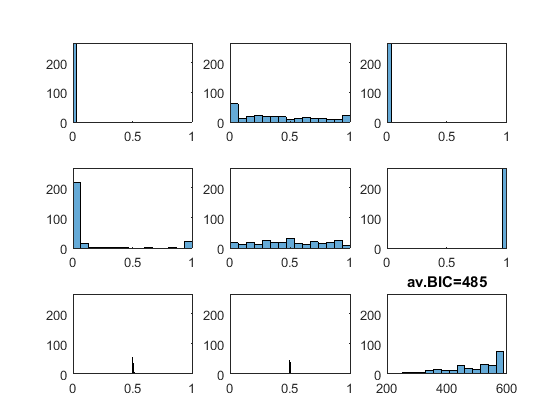
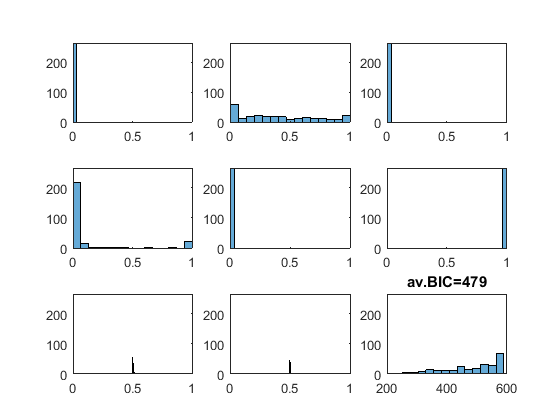
added Genrec class and parameterFitting class

diff --git a/DatasetTest.m b/DatasetTest.m
@@ -1,6 +1,7 @@
 classdef DatasetTest < matlab.unittest.TestCase
-    %UNTITLED9 Summary of this class goes here
-    %   execute with "result = run(TestSuite.fromClass(?DatasetTest))"
+    
+    % load test suite with "import matlab.unittest.TestSuite"
+    % run tests with "result = run(TestSuite.fromClass(?DatasetTest))"
     
     properties
     end
@@ -13,8 +14,20 @@ classdef DatasetTest < matlab.unittest.TestCase
             sim_model = 'mb';
             common = 0.7;
             
-            dataset = Simulated_data(n_datasets, n_trials, sim_model, common);
+            % Simulate data
+            dataset = Simulated_data(sim_model, n_datasets, n_trials, common);
+            [Agent, agentID, runID] = dataset.get_data(1);
+
+            testCase.verifyEqual(agentID, 1);
+            testCase.verifyEqual(runID, nan);
+            all_zeros = all(Agent(1,:) == 0);
+            testCase.verifyFalse(all_zeros);
+
+            % Load data
+            sim_model = 'mb';
+            load(['data_' sim_model '_agents.mat'])
             
+            dataset = Simulated_data(sim_model);
             [Agent, agentID, runID] = dataset.get_data(1);
 
             testCase.verifyEqual(agentID, 1);
@@ -22,20 +35,88 @@ classdef DatasetTest < matlab.unittest.TestCase
             all_zeros = all(Agent(1,:) == 0);
             testCase.verifyFalse(all_zeros);
         end
-        
+                
         function testRealData(testCase)
             file_dir = 'C:\Users\maria\MEGAsync\TrainingPlanningProject\TwoStepTask\Results\rawdata2016';   % Where is the original data stored?
             dataset = Real_data(file_dir);
-            n_datasets = dataset.n_datasets;
+            n_datasets = dataset.number;
             
+            % Load human data
             [Agent, agentID, runID] = dataset.get_data(1);
+            [Agent, agentID, runID] = dataset.get_data(2);
 
             testCase.verifyTrue(agentID > 100);
             testCase.verifyTrue(any(runID == 1:4));
             all_zeros = all(Agent(1,:) == 0);
             testCase.verifyFalse(all_zeros);
+            all_zeros = all(Agent(1,:) == 0);
+            testCase.verifyFalse(all_zeros);
             testCase.verifyEqual(n_datasets, 266);
         end
+        
+        function testGenrec(testCase)
+            common = 0.7;
+            sim_data = 'load';
+            sim_model = 'mb';
+            fit_model = 'mb';
+            n_datasets = 5;
+            n_trials = 5;
+            n_params = 8;
+            i_dataset = 1;
+            dataset = Simulated_data(sim_model, n_datasets, n_trials, common);
+            [Agent, agentID, runID] = dataset.get_data(i_dataset);
+            fit_params = -1 * ones(1, n_params);
+            NLLBICAIC = 100 * ones(1, 3);
+            
+            % Create genrec object
+            genrec = Genrec(sim_model, fit_model, n_datasets, n_params);
+            testCase.verifyEqual(genrec.file_name(1:6), 'genrec');
+            genrec_size = [n_datasets,  (2 * n_params + 7)];
+            testCase.verifyEqual(size(genrec.Data), genrec_size);
+            
+            % Save results to genrec
+            genrec.add_results(i_dataset, Agent, agentID, runID, fit_params, NLLBICAIC, sim_data);
+            genrec.add_results(i_dataset + 1, Agent, agentID, runID, fit_params, NLLBICAIC, sim_data);
+            testCase.verifyFalse(all(genrec.Data(i_dataset, :) == 0))
+            testCase.verifyFalse(all(genrec.Data(i_dataset + 1, :) == 0))
+            
+            % Save genrec to disk
+            genrec.save_data
+            load(genrec.file_name)
+            testCase.verifyEqual(size(genrec_dat), genrec_size);
+            testCase.verifyFalse(all(genrec_dat(i_dataset, :) == 0))
+        end
+        
+        function testParameterFitting(testCase)
+            fit_model = 'mf';
+            sim_data = 'load';
+            n_params = 8;
+            n_fmincon_iterations = 3;
+            solver_algo = 'fmincon';
+            common = 0.7;
+            for sim_mod = {'mb', 'mf', 'hyb'}
+                sim_model = strjoin(sim_mod);
+                load(['data_' sim_model '_agents.mat'])
+                dataset = Simulated_data(sim_model);
+                [Agent, ~, ~] = dataset.get_data(1);
+
+                % Create parameterFitting object
+                parameterFitting = ParameterFitting(fit_model, n_fmincon_iterations, solver_algo);
+                testCase.verifyTrue(strcmp(parameterFitting.fit_model, fit_model))
+                testCase.verifyFalse(all(parameterFitting.fit_par == ones(1, 8)))
+
+                % Minimize neg. log. lik.
+                [fit_params, ~] = parameterFitting.minimize_NLL(Agent, sim_data, common);
+                minimized_parameters = fit_params(parameterFitting.fit_par == -1);
+                testCase.verifyTrue(all(fit_params >= zeros(1, n_params) & fit_params <= ones(1, n_params)))
+%                 testCase.verifyTrue(all(minimized_parameters > 0));
+
+                % Calculate BIC & AIC
+                NLLBICAIC = parameterFitting.compute_NLL(Agent, fit_params, sim_data, common);
+                testCase.verifyTrue(all(NLLBICAIC > zeros(1, 3)));
+            end
+        end
+        
     end
     
 end

diff --git a/MAIN.m b/MAIN.m
@@ -4,9 +4,9 @@
 % where fract2 == -2; remove strokes with the same key more than x times)
 
 %% Switches for this script (would be function argument if this were a function)
-sim_data = 'sim';   % Should the data be simulated ('sim') or loaded from disk ('load') or is the real dataset used ('real')?
-sim_model = 'mb';   % What model should be used for simulation / what data should be loaded? (e.g., 'mb', 'mf', 'hyb'; check in model_ID for all available models)
-fit_model = 'mb';   % What model should be used for fitting? ('mf', 'mb', 'hyb', '1a1b' (Also needs changes in computeNLL!!))
+sim_data = 'real';   % Should the data be simulated ('sim') or loaded from disk ('load') or is the real dataset used ('real')?
+sim_model = nan;   % What model should be used for simulation / what data should be loaded? (e.g., 'mb', 'mf', 'hyb'; check in model_ID for all available models)
+fit_model = 'mf';   % What model should be used for fitting? ('mf', 'mb', 'hyb', '1a1b' (Also needs changes in computeNLL!!))
 location = 'home';   % Where is this code run? Can be 'home' or 'cluster'
 solver_algo = 'fmincon';   % Which method is used to solve? 'fmincon' (with n_fmincon_iterations different starts) or 'ga' (parallelization doesn't work) or 'particleswarm' (leads to worse results)?
 
@@ -20,58 +20,42 @@ end
 
 %% Prepare things
 [n_datasets, n_fmincon_iterations, n_trials, file_dir] = determine_location_specifics(location, n_workers);
-genrec_file_name = name_genrec_file(sim_model, fit_model);
-model_parameters = define_model_parameters();   % Which parameters will be fitted (-1) versus fixed (values) in each model (used for sim_par and fit_par)
 
 %% Simulate / Load Data
 switch sim_data
     case 'sim'
-        
-        dataset = Simulated_data(n_datasets, n_trials, sim_model, common);
-        Data = dataset.Data;
-        save(['data_' sim_model '_agents.mat'], 'Data')
-        
+        dataset = Simulated_data(sim_model, n_datasets, n_trials, common);
     case 'load'
-        load(['data_' sim_model '_agents.mat'])
-        dataset = Simulated_data(Data);
-        
+        dataset = Simulated_data(sim_model);
     case 'real'
         dataset = Real_data(file_dir);
-        n_datasets = dataset.n_datasets;
 end
 
-
-%% Fit parameters to the Data
+%% Fit parameters to the Data (if fit_data is true)
 if fit_data
     
-    %%% Which parameters will be fitted (-1) and which are fixed by me (values)?
-    fit_par = model_parameters(model_ID(fit_model),:);
+    %%% Create genrec, which will hold (true and) fitted parameters for each dataset
+    genrec = Genrec(sim_model, fit_model, dataset.number, n_params);
+    parameterFitting = ParameterFitting(fit_model, n_fmincon_iterations, solver_algo);
     
-    %%% Optimizer inputs
-    [pmin, pmax, par0, n_fit, n_params] = get_fmincon_stuff(fit_par);
-    
-    %%% Create genrec, which will hold (true and) fitted parameters for each agent
-    genrec = zeros(n_datasets, 2 * n_params + 7);
-    
-    for i_dataset = 1:n_datasets
+    for i_dataset = 1:dataset.number
 
         [Agent, agentID, runID] = dataset.get_data(i_dataset);
 
         %%% Find paramater values that minimize the negative log likelihood of agent data
-        object_fun = @(par)computeNLL(Agent, par, n_fit, 'NLL', common, sim_data, fit_model);   % define function whose minimum will be found
-        [fit_params, function_value] = find_params_that_minimize_NLL(object_fun, par0, pmin, pmax, n_fmincon_iterations, solver_algo);   % find function's minimum
-        NLLBICAIC = computeNLL(Agent, fit_params, n_fit, 'all', common, sim_data, fit_model);   % calculate NLL, BIC, and AIC for the found parameter values
+        fit_params = parameterFitting.minimize_NLL(Agent, sim_data, common);
+        NLLBICAIC = parameterFitting.compute_NLL(Agent, fit_params, sim_data, common);
 
         %%% Save generated (simulated) and recovered (fitted) values in genrec
-        genrec = save_results_to_genrec(genrec, i_dataset, Agent, agentID, runID, fit_params, NLLBICAIC, sim_data, n_params);
+        genrec.add_results(i_dataset, Agent, agentID, runID, fit_params, NLLBICAIC, sim_data);
         
         %%% Save genrec to disk; print agent number to the console to check where we are
-        if mod(i_dataset, 5) == 1
-            save(genrec_file_name, 'genrec')
+        if mod(i_dataset, 10) == 1
+            genrec.save_data
             i_dataset
         end
     end
-    
+     
     %%% Save final version of genrec after running the last agent
-    save(genrec_file_name, 'genrec')
+    genrec.save_data
 end

diff --git a/Simulated_data.m b/Simulated_data.m
@@ -3,22 +3,31 @@ classdef Simulated_data < Dataset
     %   Detailed explanation goes here
     
     properties
+        number
         Data
+        sim_model
         sim_par
     end
     
     methods
         
-        function obj = Simulated_data(n_datasets, n_trials, sim_model, common)
-            
-            % Which parameters are free in the simulation (-1) and which are fixed (value)?
-            model_parameters = define_model_parameters();
-            obj.sim_par = model_parameters(model_ID(sim_model),:);
-            obj.Data = simulate_task(n_datasets, n_trials, obj.sim_par, common);
+        function obj = Simulated_data(sim_model, n_datasets, n_trials, common)
+            obj.sim_model = sim_model;
+            if nargin == 1
+                load(['data_' sim_model '_agents.mat'])
+                obj.number = length(unique(Data(1:end-1,1)));
+                obj.Data = Data;
+            else
+                obj.number = n_datasets;
+                model_parameters = define_model_parameters();
+                obj.sim_par = model_parameters(model_ID(sim_model),:);
+                obj.Data = simulate_task(obj.number, n_trials, obj.sim_par, common);
+                Data = obj.Data;
+                save(['data_' sim_model '_agents.mat'], 'Data')                
+            end
         end
         
         function [Agent, agentID, runID] = get_data(self, i_dataset)
-            n_params = 8;
             data_columns;   % Find out which columns contain what
             agent_rows = self.Data(:, AgentID_c) == i_dataset;
             Agent = self.Data(agent_rows, :);

diff --git a/ParameterFitting.m b/ParameterFitting.m
@@ -1,0 +1,42 @@
+classdef ParameterFitting
+    %UNTITLED2 Summary of this class goes here
+    %   Detailed explanation goes here
+    
+    properties
+        fit_model
+        fit_par
+        pmin
+        pmax
+        par0
+        n_fit
+        n_params
+        n_fmincon_iterations
+        solver_algo
+%         object_fun
+%         fit_params
+    end
+    
+    methods
+        
+        function obj = ParameterFitting(fit_model, n_fmincon_iterations, solver_algo)
+            model_parameters = define_model_parameters();
+            obj.fit_model = fit_model;
+            obj.fit_par = model_parameters(model_ID(fit_model),:);
+            [obj.pmin, obj.pmax, obj.par0, obj.n_fit, obj.n_params] = get_fmincon_stuff(obj.fit_par);
+            obj.solver_algo = solver_algo;
+            obj.n_fmincon_iterations = n_fmincon_iterations;
+        end
+        
+        function [fit_params, function_value] = minimize_NLL(self, Agent, sim_data, common)
+            object_fun = @(par)computeNLL(Agent, par, self.n_fit, 'NLL', common, sim_data, self.fit_model);
+            [fit_params, function_value] = find_params_that_minimize_NLL(object_fun, self.par0, self.pmin, self.pmax, self.n_fmincon_iterations, self.solver_algo);
+        end
+        
+        function NLLBICAIC = compute_NLL(self, Agent, fit_params, sim_data, common)
+            NLLBICAIC = computeNLL(Agent, fit_params, self.n_fit, 'all', common, sim_data, self.fit_model);
+        end
+        
+    end
+    
+end
+

diff --git a/Genrec.m b/Genrec.m
@@ -1,0 +1,36 @@
+classdef Genrec < handle
+    %UNTITLED Summary of this class goes here
+    %   Detailed explanation goes here
+    
+    properties
+        file_name
+        Data
+    end
+    
+    methods
+        
+        function obj = Genrec(sim_model, fit_model, n_datasets, n_params)
+            obj.file_name = name_genrec_file(sim_model, fit_model);
+            obj.Data = zeros(n_datasets, 2 * n_params + 7);
+        end
+        
+        function add_results(self, i_dataset, Agent, agentID, runID, fit_params, NLLBICAIC, sim_data)
+            data_columns;
+            genrec_columns;   % what info is located in which column?
+            self.Data(i_dataset, [agentID_c run_c]) = [agentID runID];
+            if ~strcmp(sim_data, 'real')
+                self.Data(i_dataset, gen_aabblwpk_c) = Agent(1, par_c);
+            end
+            self.Data(i_dataset, rec_aabblwpk_c) = fit_params;   % Save fitted parameters (params) into the genrec rec paramater columns (aabblwpk)
+            self.Data(i_dataset, NLLBICAIC_c) = NLLBICAIC;   % Save NLL, BIC, and AIC (NLLBICAIC) into the genrec NLLBICAIC columns (NLLBICAIC_c)
+        end
+        
+        function save_data(self)
+            genrec_dat = self.Data;
+            save(self.file_name, 'genrec_dat')
+        end
+        
+    end
+    
+end
+

diff --git a/save_results_to_genrec.m b/save_results_to_genrec.m
@@ -1,10 +1,10 @@
-function genrec = save_results_to_genrec(genrec, agent, Agent, agentID, runID, fit_params, NLLBICAIC, sim_data, n_params)
+function genrec = save_results_to_genrec(genrec, i_dataset, dataset, agentID, runID, fit_params, NLLBICAIC, sim_data, n_params)
 
 data_columns;
 genrec_columns;   % what info is located in which column?
-genrec(agent, [agentID_c run_c]) = [agentID runID];
+genrec(i_dataset, [agentID_c run_c]) = [agentID runID];
 if ~strcmp(sim_data, 'real')
-    genrec(agent, gen_aabblwpk_c) = Agent(1, par_c);
+    genrec(i_dataset, gen_aabblwpk_c) = dataset(1, par_c);
 end
-genrec(agent, rec_aabblwpk_c) = fit_params;   % Save fitted parameters (params) into the genrec rec paramater columns (aabblwpk)
-genrec(agent, NLLBICAIC_c) = NLLBICAIC;   % Save NLL, BIC, and AIC (NLLBICAIC) into the genrec NLLBICAIC columns (NLLBICAIC_c)
+genrec(i_dataset, rec_aabblwpk_c) = fit_params;   % Save fitted parameters (params) into the genrec rec paramater columns (aabblwpk)
+genrec(i_dataset, NLLBICAIC_c) = NLLBICAIC;   % Save NLL, BIC, and AIC (NLLBICAIC) into the genrec NLLBICAIC columns (NLLBICAIC_c)

diff --git a/Real_data.m b/Real_data.m
@@ -3,10 +3,12 @@ classdef Real_data < Dataset
     %   Detailed explanation goes here
     
     properties
+        number
+        sim_model
         file_dir
         file_index
         files
-        n_datasets
+        sim_data
     end
     
     methods
@@ -15,7 +17,9 @@ classdef Real_data < Dataset
             obj.file_dir = file_dir;
             obj.files = dir(file_dir);
             obj.file_index = find(~[obj.files.isdir]);
-            obj.n_datasets = length(obj.file_index);    
+            obj.number = length(obj.file_index);
+            obj.sim_model = nan;
+            obj.sim_data = 'load';
         end
         
         function [Agent, agentID, runID] = get_data(self, i_dataset)

diff --git a/computeNLL.m b/computeNLL.m
@@ -11,12 +11,6 @@ lambda = par(5);
 w = par(6);
 p_par = par(7) * 200 - 100;
 k_par = par(8) * 200 - 100;
-% p_par = par(7) * 100 - 50;
-% k_par = par(8) * 100 - 50;
-% p_par = par(7) * 2 - 1;
-% p_par = beta2 * p_par;
-% k_par = par(8) * 2 - 1;
-% k_par = beta2 * k_par;
 if length(a1b1) >= 4
     if strcmp(a1b1(1:4), '1a1b')
     end

diff --git a/Dataset.m b/Dataset.m
@@ -2,7 +2,8 @@ classdef (Abstract) Dataset
     %UNTITLED7 Summary of this class goes here
     %   Detailed explanation goes here
     
-    properties
+    properties (Abstract)
+        number
     end
     
     methods (Abstract)

diff --git a/data_columns.m b/data_columns.m
@@ -1,4 +1,5 @@
 %% Data columns
+n_params = 8;
 AgentID_c = 1;
 frac1_c = 2;
 frac2_c = 3;
